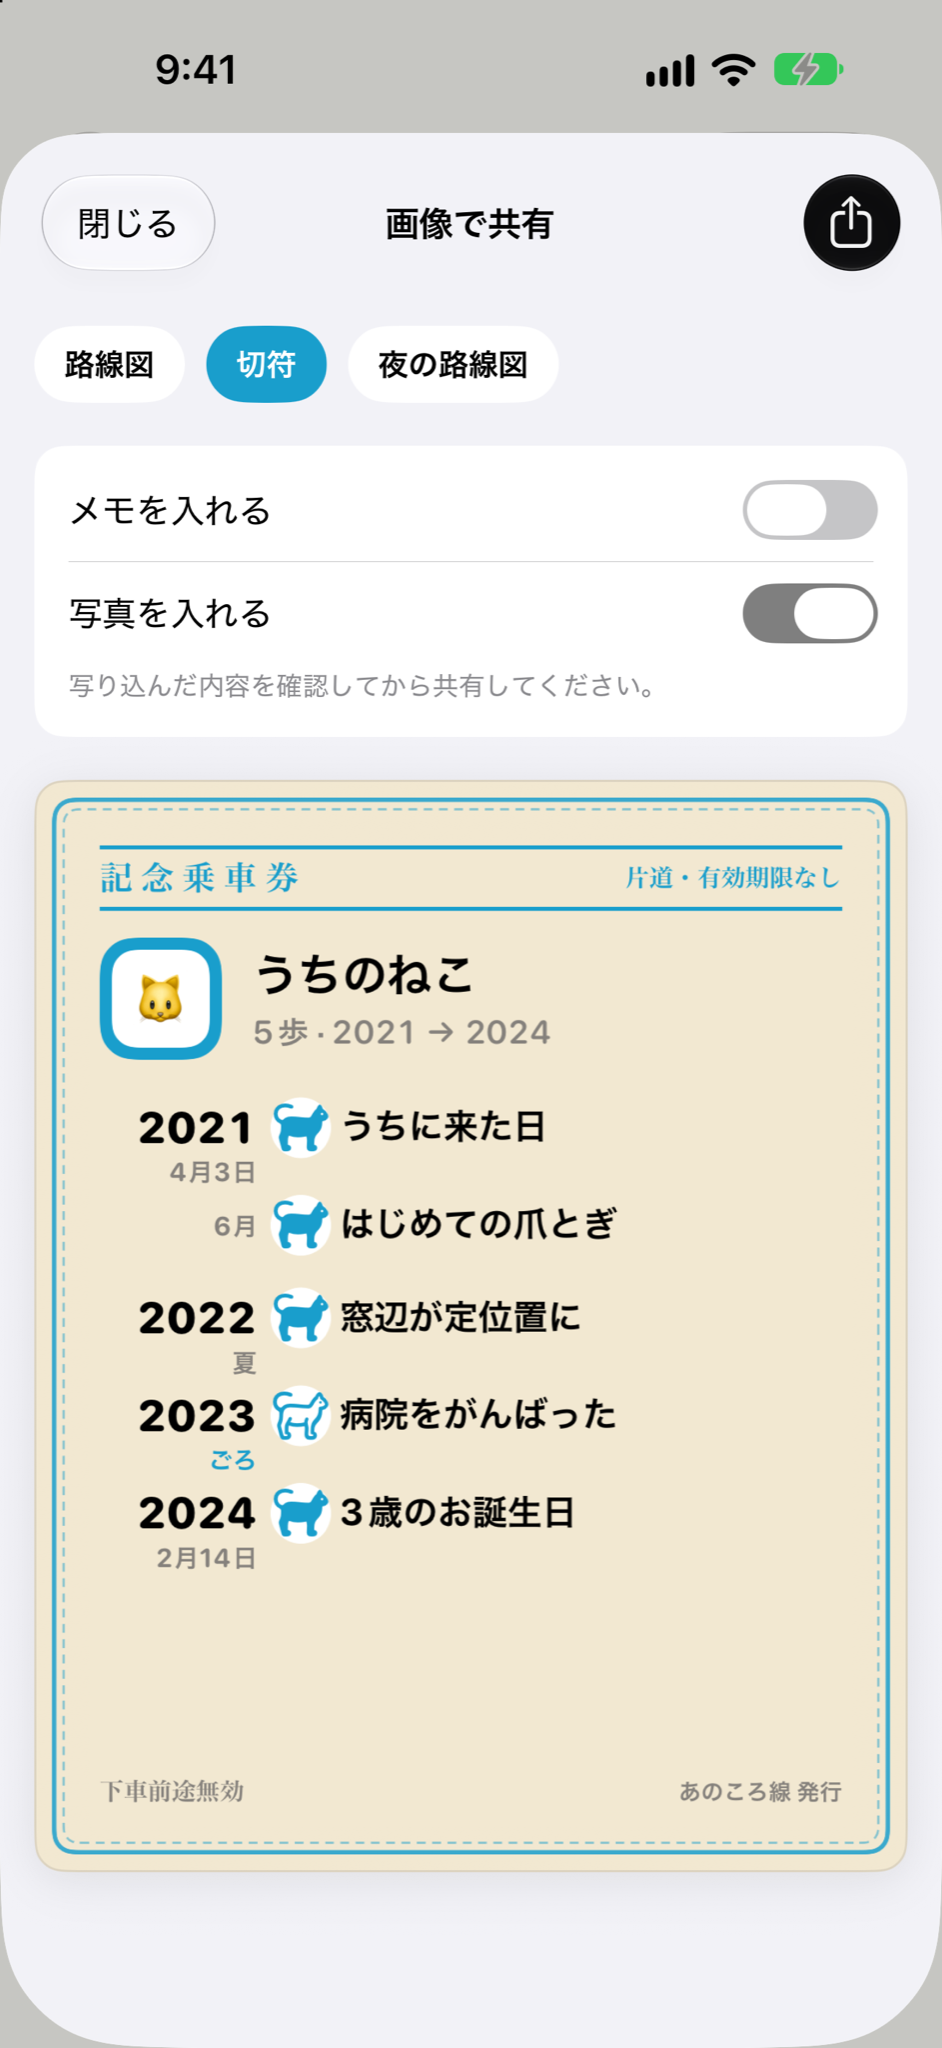
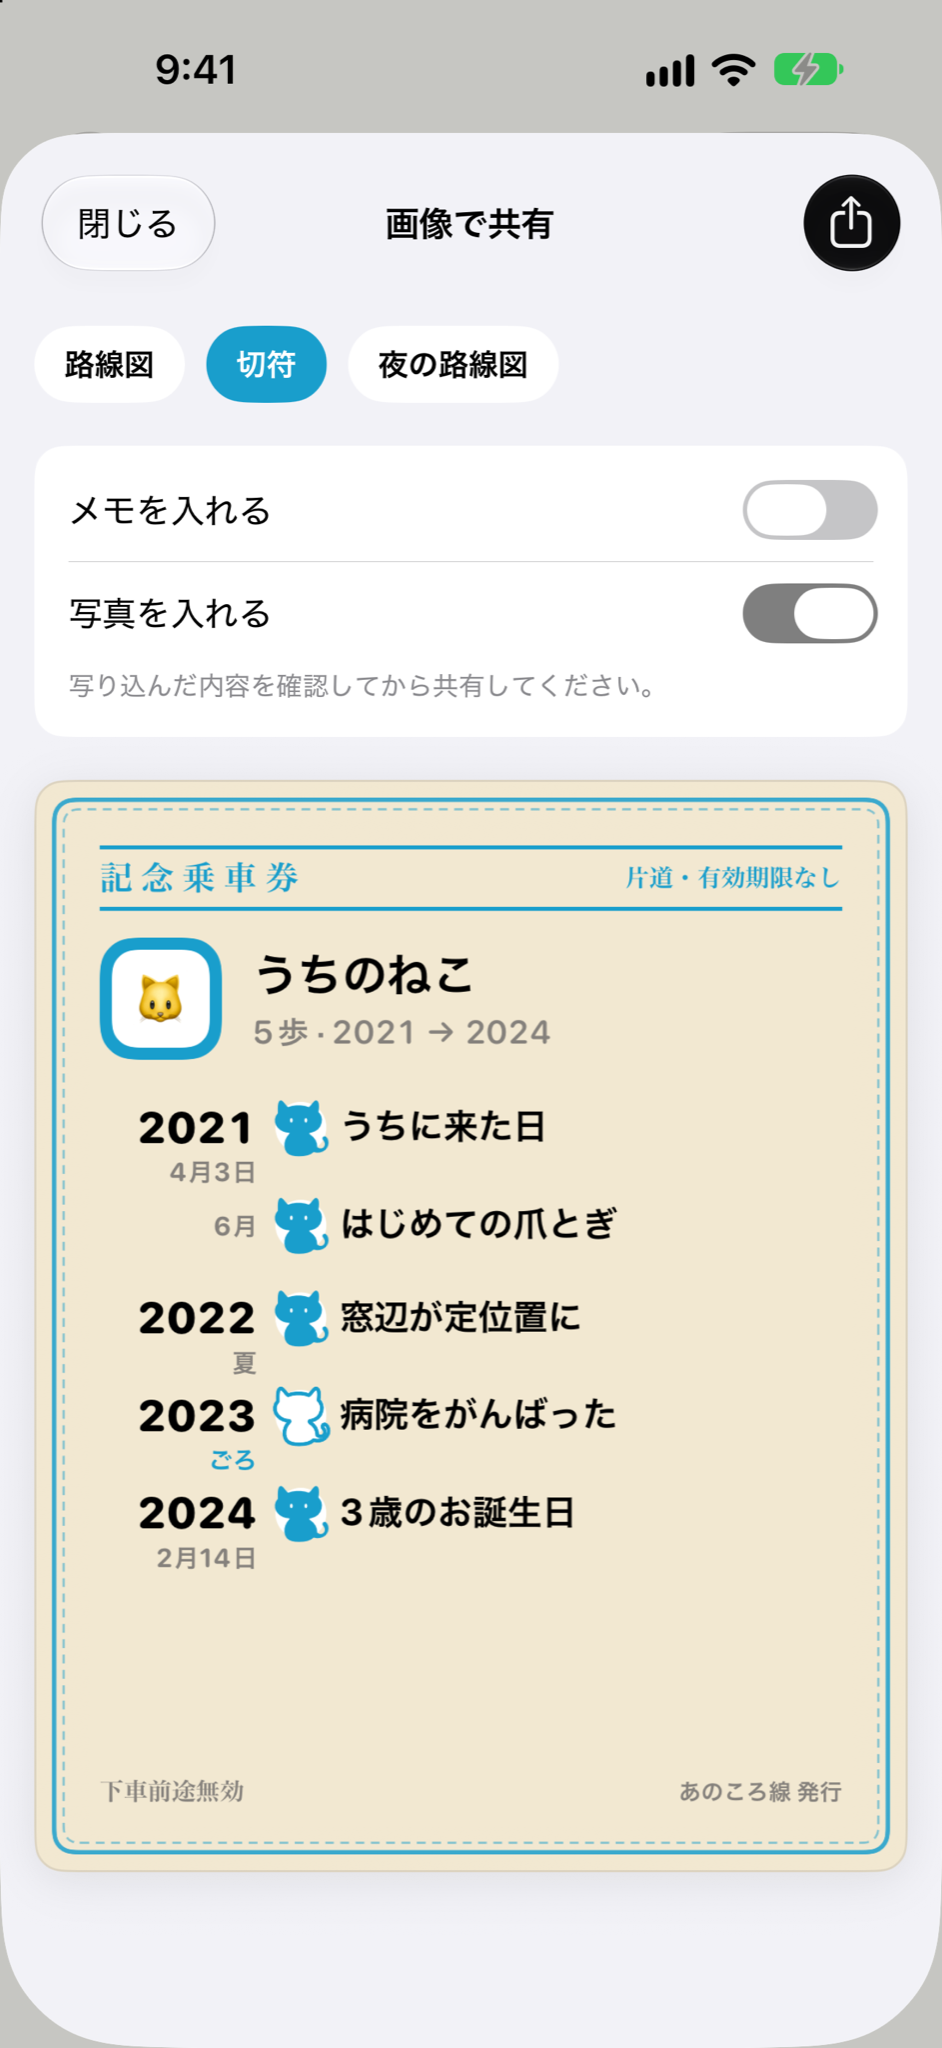
あのころ線：見出しを「あなたの思い出を」に。足あと（駅は猫）とスクショを更新
Claude-Session: https://claude.ai/code/session_01T1AS2PeXS4ZJJ3j7rkCQNP

Changed region(s): [[0.2771, 0.5312, 0.3694, 0.75]]

diff --git a/anokoro-sen/index.html b/anokoro-sen/index.html
@@ -39,9 +39,9 @@
   <div class="wrap hero-grid">
     <div class="hero-text reveal is-visible">
       <span class="kicker">TIMELINE / 年表</span>
-      <h1>思い出を、<br>路線図の年表に。</h1>
+      <h1>あなたの思い出を、<br>路線図の年表に。</h1>
       <p class="hero-copy">推しも、旅行も、ペットも、自分史も。あのころの出来事が駅になって、一本の路線につながる年表アプリです。作った年表には、電車に乗ってふりかえれます。</p>
-      <div class="badges"><span>路線図の年表</span><span>乗ってふりかえる</span><span>すごろく・星座・ねこに着せ替え</span><span>“ごろ”でも書ける</span></div>
+      <div class="badges"><span>路線図の年表</span><span>乗ってふりかえる</span><span>すごろく・星座・足あとに着せ替え</span><span>“ごろ”でも書ける</span></div>
       <div class="hero-actions"><span class="store-pending">App Store 公開準備中</span><a class="btn ghost" href="#screens">主な画面</a></div>
     </div>
     <div class="hero-visual">
@@ -53,7 +53,7 @@
 </section>
 <section class="section" id="features"><div class="wrap"><div class="section-head reveal"><div><span class="kicker">FEATURES</span><h2>機能</h2></div><p>思い出を路線図の年表にして、乗ってふりかえる。</p></div><div class="features"><article class="feature reveal"><span class="feature-no">01</span><h3>路線図の年表</h3><p>出来事が駅になり、年の間隔もひと目でわかります。テーマは自由で、年表はいくつでも作れます。</p></article>
 <article class="feature reveal"><span class="feature-no">02</span><h3>乗ってふりかえる</h3><p>電車が路線を走り、駅ごとに出来事が現れて、終点「いま」に着きます。</p></article>
-<article class="feature reveal"><span class="feature-no">03</span><h3>すごろく・星座・ねこに着せ替え</h3><p>サイコロで進むすごろく、駅ごとに北斗七星が完成する星座、猫の足あとをたどるねこの見た目も選べます。</p></article>
+<article class="feature reveal"><span class="feature-no">03</span><h3>すごろく・星座・足あとに着せ替え</h3><p>サイコロで進むすごろく、駅ごとに北斗七星が完成する星座、駅が猫になる足あとの見た目も選べます（定期券）。</p></article>
 <article class="feature reveal"><span class="feature-no">04</span><h3>“ごろ”でも書ける</h3><p>「2015年ごろ」「2019年 春」のように、覚えているところまでで記録できます。</p></article></div></div></section>
 <section class="screens-section" id="screens"><div class="wrap"><div class="section-head reveal"><div><span class="kicker">SCREENS</span><h2>主な画面</h2></div><p>あのころ線の主な画面です。</p></div><div class="carousel-shell reveal" data-carousel><div class="carousel-top"><div class="count"><span data-current>01</span> / 06</div><div class="carousel-buttons"><button type="button" data-prev aria-label="前の画面">←</button><button type="button" data-next aria-label="次の画面">→</button></div></div><div class="carousel" data-track><article class="slide" data-slide>
           <div class="shot-frame"><img src="assets/screenshots/01-route.png" alt="路線図の年表" loading="lazy"></div>
